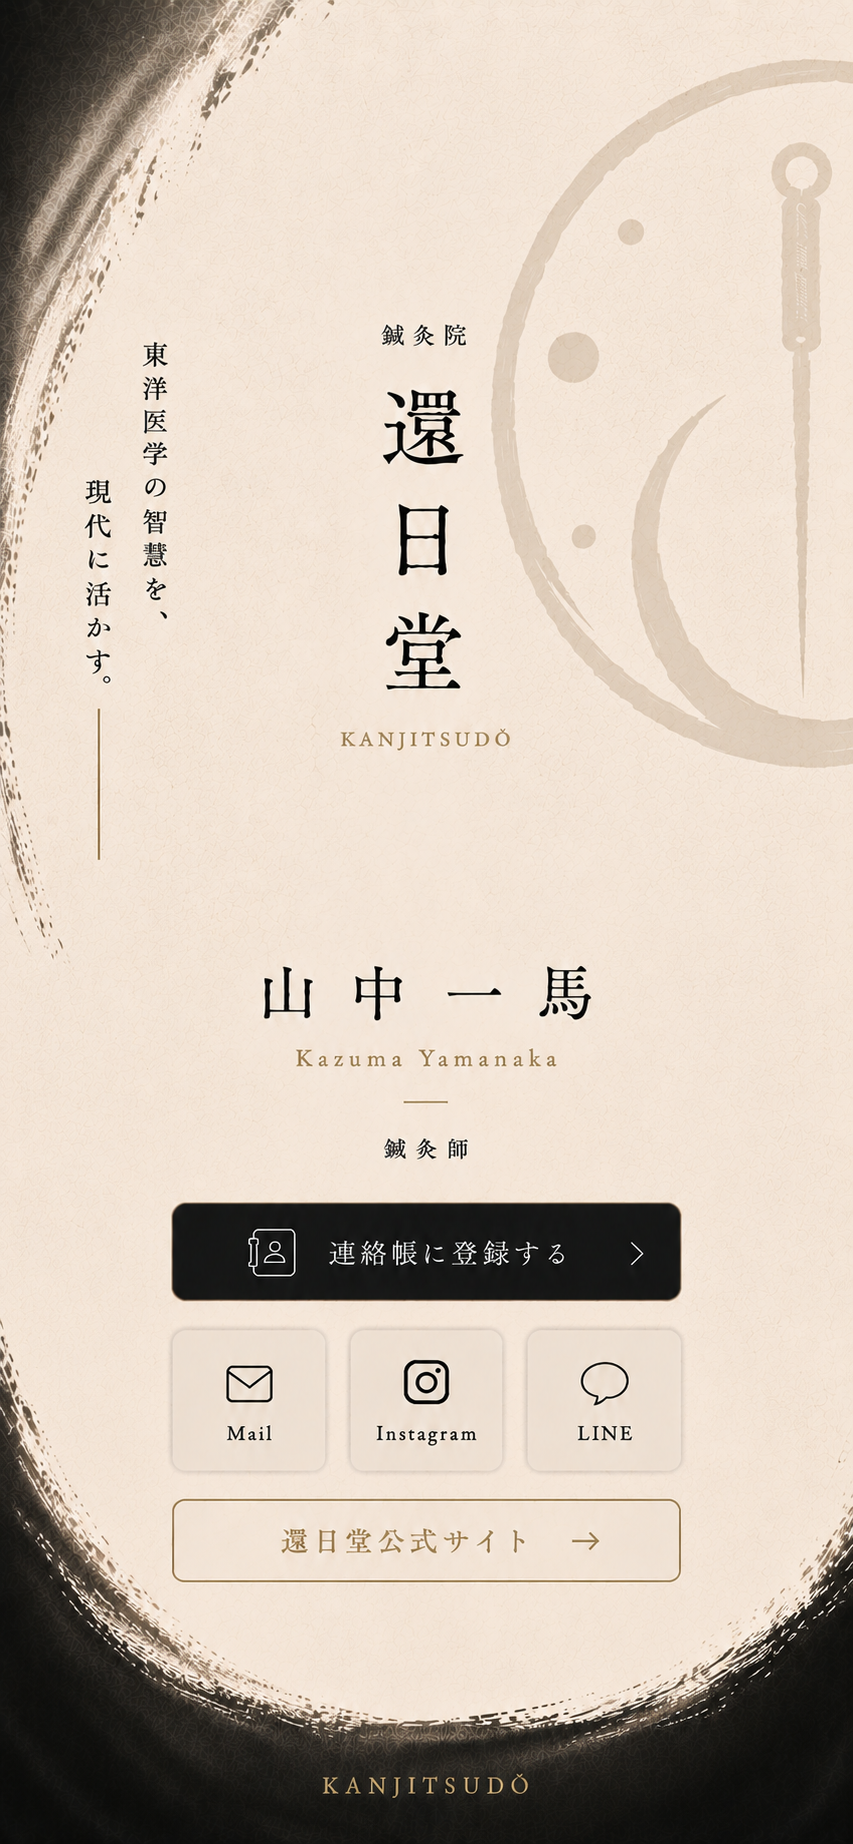
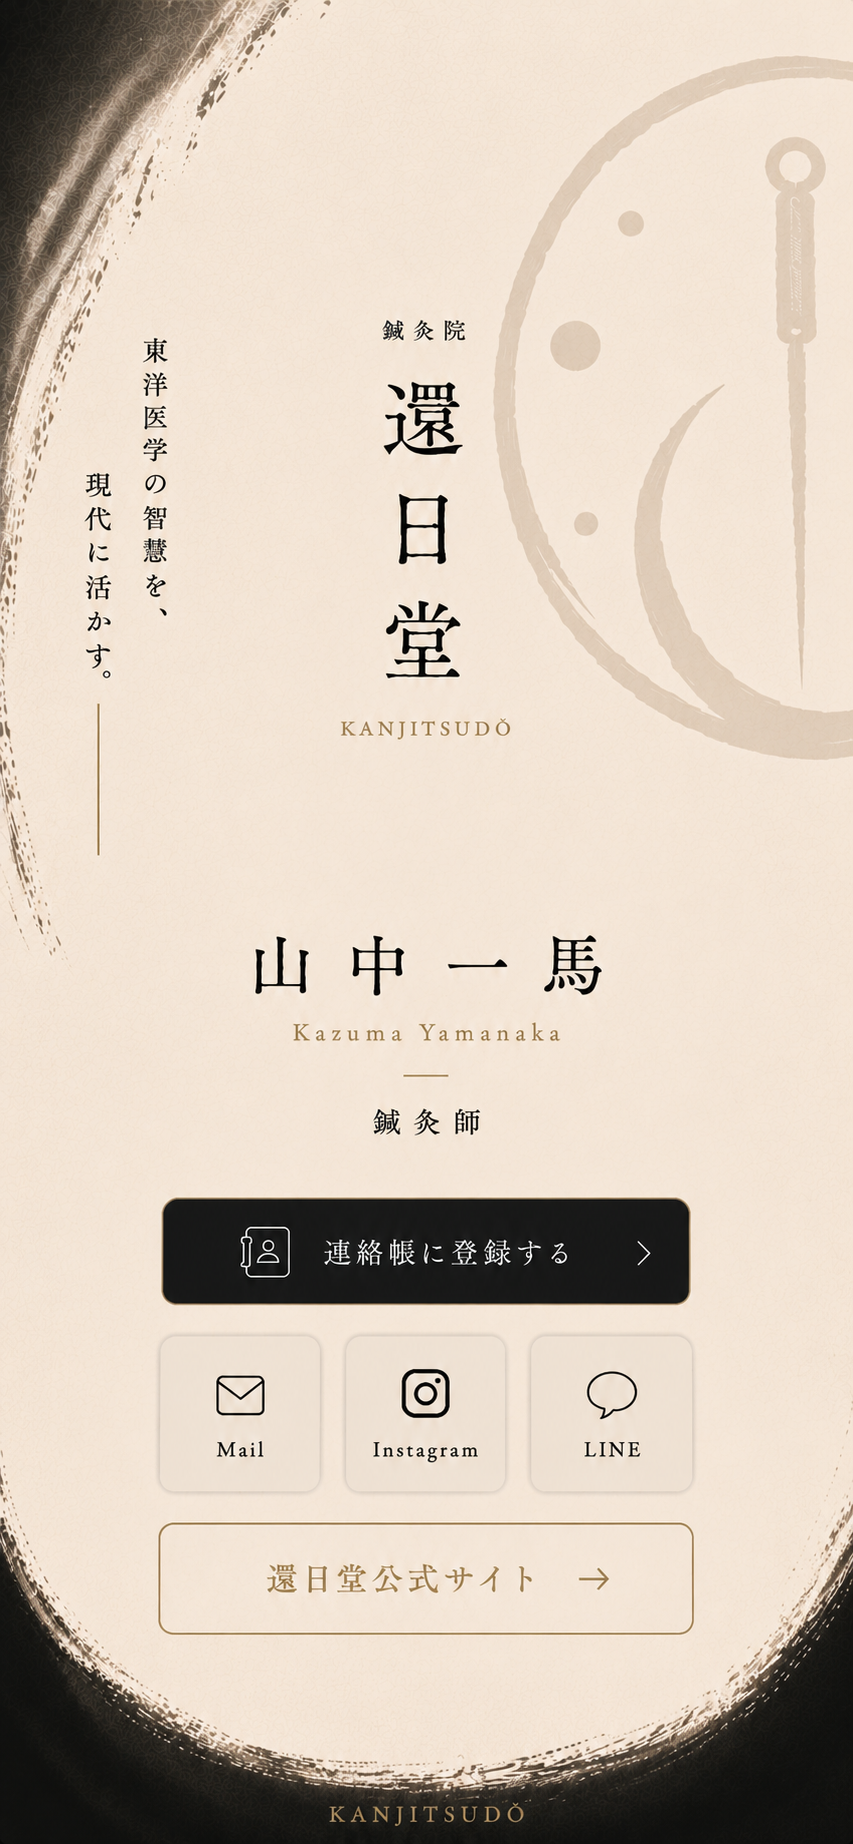
Add files via upload

diff --git a/index.html b/index.html
@@ -3,30 +3,46 @@
 <head>
 <meta charset="utf-8">
 <meta name="viewport" content="width=device-width,initial-scale=1,viewport-fit=cover">
+<meta name="theme-color" content="#efe6d8">
+<meta name="apple-mobile-web-app-capable" content="yes">
+<meta name="apple-mobile-web-app-status-bar-style" content="default">
 <title>山中 一馬 | 鍼灸院 還日堂</title>
 <meta name="description" content="鍼灸院 還日堂 鍼灸師 山中一馬のデジタル名刺。">
 <style>
 *{box-sizing:border-box}
-html{-webkit-text-size-adjust:100%}
+html{
+  margin:0;
+  padding:0;
+  background:#efe6d8;
+  -webkit-text-size-adjust:100%;
+}
 body{
   margin:0;
-  background:#eee7dc;
+  padding:0;
+  background:#efe6d8;
   font-family:-apple-system,BlinkMacSystemFont,"Helvetica Neue",Arial,sans-serif;
+  overflow-x:hidden;
 }
 .page{
   position:relative;
   width:100%;
   max-width:430px;
   margin:0 auto;
-  background:#f6f0e5;
+  padding:0;
+  background:#efe6d8;
   overflow:hidden;
+  line-height:0;
 }
 .design{
   display:block;
   width:100%;
   height:auto;
+  margin:0;
+  padding:0;
+  border:0;
   user-select:none;
   -webkit-user-drag:none;
+  vertical-align:top;
 }
 .hotspot{
   position:absolute;
@@ -35,15 +51,49 @@ body{
   background:rgba(255,255,255,0);
   border:0;
   padding:0;
+  margin:0;
   cursor:pointer;
   appearance:none;
+  -webkit-appearance:none;
 }
-/* デザイン画像には一切手を加えず、透明リンクだけ配置 */
-.contact{left:20.0%;top:67.15%;width:60.0%;height:5.2%;border-radius:12px}
-.mail{left:19.0%;top:74.55%;width:19.5%;height:7.4%;border-radius:14px}
-.instagram{left:40.3%;top:74.55%;width:19.5%;height:7.4%;border-radius:14px}
-.line{left:61.5%;top:74.55%;width:19.5%;height:7.4%;border-radius:14px}
-.website{left:19.0%;top:84.35%;width:62.0%;height:4.6%;border-radius:999px}
+
+/* 画像デザインは触らず、透明リンクだけ配置 */
+.contact{
+  left:19.0%;
+  top:66.5%;
+  width:62.0%;
+  height:5.8%;
+  border-radius:14px;
+}
+.mail{
+  left:19.0%;
+  top:74.2%;
+  width:19.5%;
+  height:7.6%;
+  border-radius:14px;
+}
+.instagram{
+  left:40.4%;
+  top:74.2%;
+  width:19.5%;
+  height:7.6%;
+  border-radius:14px;
+}
+.line{
+  left:61.7%;
+  top:74.2%;
+  width:19.5%;
+  height:7.6%;
+  border-radius:14px;
+}
+.website{
+  left:18.5%;
+  top:84.1%;
+  width:63.0%;
+  height:4.8%;
+  border-radius:999px;
+}
+
 @media(min-width:431px){
   .page{box-shadow:0 30px 100px rgba(0,0,0,.14)}
 }
@@ -62,7 +112,7 @@ body{
 
   <a class="hotspot line" href="https://line.me/ti/p/_eYXUVPcDW" target="_blank" rel="noopener" aria-label="LINE"></a>
 
-  <a class="hotspot website" href="https://acumoxzen-tech.github.io/kanjitsudo-site/#top" target="_blank" rel="noopener" aria-label="還日堂公式サイト"></a>
+  <a class="hotspot website" href="https://acumoxzen-tech.github.io/kanjitsudo-site/" target="_blank" rel="noopener" aria-label="還日堂公式サイト"></a>
 </main>
 
 <script>
@@ -75,18 +125,20 @@ ORG:鍼灸院 還日堂
 TITLE:鍼灸師
 TEL;TYPE=CELL:07083058788
 EMAIL:acumox.zen@gmail.com
-URL:https://acumoxzen-tech.github.io/kanjitsudo-site/#top
-NOTE:鍼灸院 還日堂 / Kazuma Yamanaka
+URL:https://acumoxzen-tech.github.io/kanjitsudo-site/
 END:VCARD`;
 
   const blob = new Blob([vcard], {type:"text/vcard;charset=utf-8"});
   const url = URL.createObjectURL(blob);
   const a = document.createElement("a");
+
   a.href = url;
   a.download = "yamanaka-kazuma.vcf";
+
   document.body.appendChild(a);
   a.click();
   document.body.removeChild(a);
+
   URL.revokeObjectURL(url);
 }
 </script>
